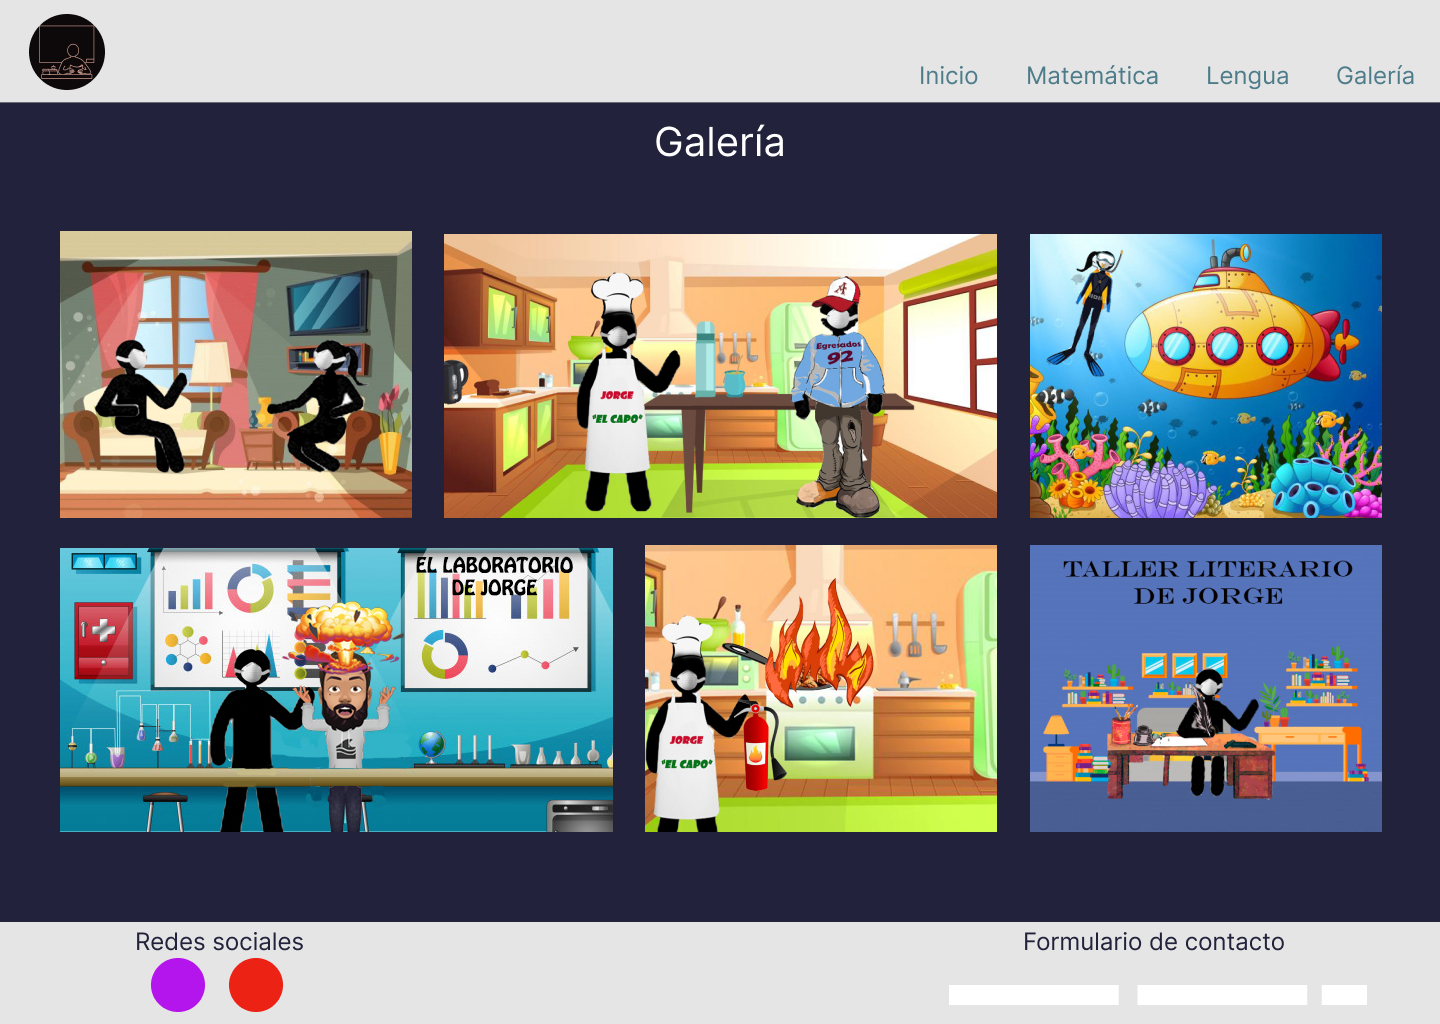
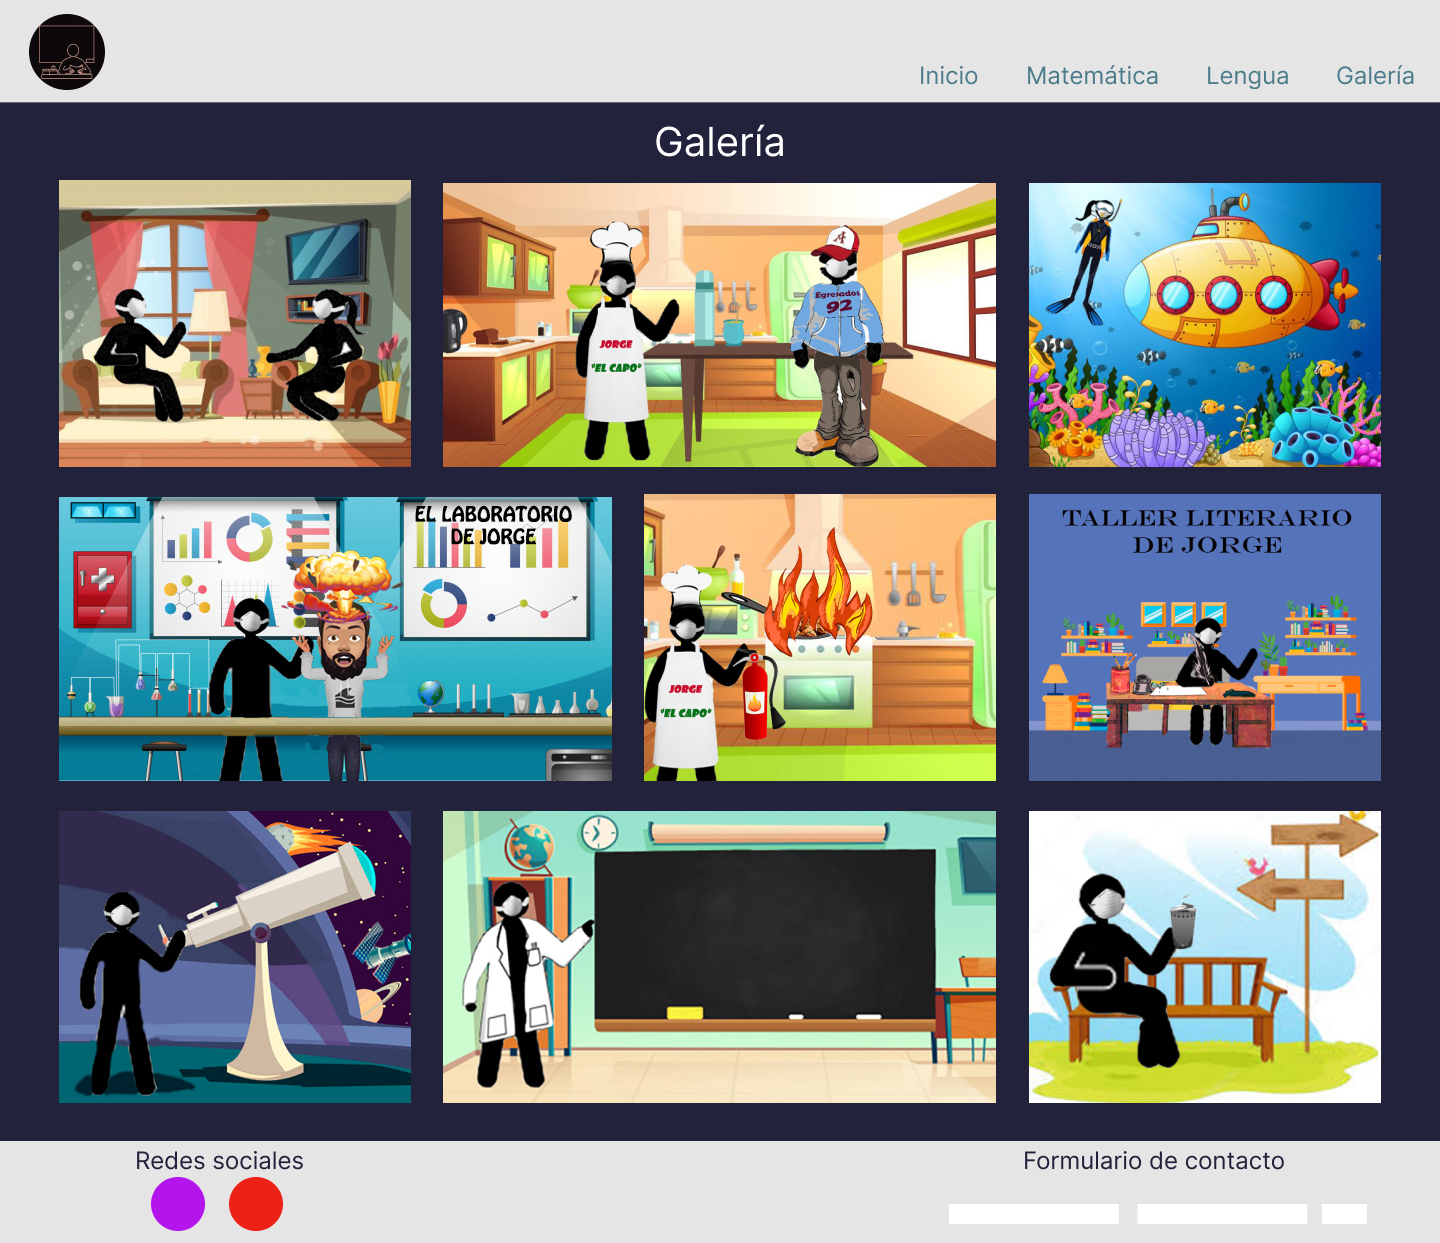
Animaciones

diff --git a/Css/index.css b/Css/index.css
@@ -3,6 +3,7 @@
 *{
     margin: 0;
     padding: 0;
+    box-sizing: border-box;
 }
 
 html{
@@ -39,12 +40,18 @@ p{
 
 .button{
     background-color: #cc998d;
-   border: solid white 2px;
-   font-family: 'Josefin Sans', sans-serif;
-   border-radius: 0.5rem;
-   color: #0D090A; 
-   margin: 2rem;
+    border: solid white 2px;
+    font-family: 'Josefin Sans', sans-serif;
+    border-radius: 0.5rem;
+    color: #0D090A; 
+    margin: 2rem;
+    transition: all .3s linear;
 }
+
+.button:hover{
+    transform: scale(1.2, 1.2);
+}
+
 
 /* ESTILOS HEADER */
 
@@ -52,8 +59,9 @@ header{
     display: flex;
     flex-direction: row;
     justify-content: space-between;
-    background-color: #daf7dccb; 
-    align-items: center;
+    background: linear-gradient(to bottom, #304352, #d7d2cc); 
+    opacity: 0.8; 
+    align-items: center;  
 }
 
 header picture img{
@@ -66,16 +74,30 @@ nav ul{
     justify-content: space-between;
 }
 
-nav ul li{
+nav ul li a:hover{
+    background-color: #daf7dc;
+    color: #0d090a;
+}
+
+nav ul li a{
     font-family: 'Josefin Sans', sans-serif;
     font-size: 1.5rem;
-    color: #0d090a;
-    padding: 1rem;
-    text-decoration-line: none;
+    color: #daf7dc;
+    padding: 1rem 2rem;
+    text-decoration-line: none; 
+    transition: all .3s ease-in-out;  
 }
 
 ul{
     list-style-type: none;
+}
+
+img {
+    transition: all .3s linear;
+}
+
+img:hover{
+    transform: scale(1.1, 1.1);
 }
 
 /* ESTILOS MAIN*/
@@ -114,6 +136,10 @@ ul{
     justify-content: center;
     margin: 1rem 1rem 2rem 1rem;
 }
+.video{
+    width: 400px;
+    height: 280px;
+}
 
 .secundario__button{
     display: flex;
@@ -130,7 +156,8 @@ footer{
     align-items: center;
     align-content: center;
     justify-content: space-between;
-    background-color: #daf7dccb;
+    background: linear-gradient(to top, #304352, #d7d2cc);
+    opacity: 0.8; 
     
 }
 
@@ -158,10 +185,11 @@ ol{
 
 /*  GALERIA */
 
-/*img{
+section picture img{
     width: 100%;
     height: 100%;
-}*/
+}
+
 
 .galeria{
     display: grid;
@@ -169,6 +197,7 @@ ol{
     grid-template-rows: repeat(3, 1fr);
     gap: 2rem;
     height: auto;
+    
 }
 
 .galeria__img:nth-of-type(1){
@@ -195,8 +224,20 @@ ol{
     grid-column: 10 / 13;
     grid-row: 2;    
 }
+.galeria__img:nth-of-type(7){
+    grid-column: 1 / 4;
+    grid-row: 3;
+}
+.galeria__img:nth-of-type(8){
+    grid-column: 4 / 10;
+    grid-row: 3;  
+}
+.galeria__img:nth-of-type(9){
+    grid-column: 10 / 13;
+    grid-row: 3;    
+}
 
-
+/* Responsive */
 
 @media screen and (max-width: 760px){
     header{
@@ -234,10 +275,10 @@ ol{
         height: 180px;
     }
 
-    /*.video{
+    .video{
         width: 100%;
         padding: 1rem;
-    }*/
+    }
 
 }
 

diff --git a/index.html b/index.html
@@ -5,11 +5,16 @@
     <meta http-equiv="X-UA-Compatible" content="IE=edge">
     <meta name="viewport" content="width=device-width, initial-scale=1.0">
     <title>Inicio</title>
+    <link
+    rel="stylesheet"
+    href="https://cdnjs.cloudflare.com/ajax/libs/animate.css/4.1.1/animate.min.css"
+  />
+  />
     <link rel="stylesheet" href="./Css/index.css">
 </head>
 <body>
     <header>
-        <picture>
+        <picture class="animate__animated animate__pulse">
             <img src="./img/Logo Jorge.svg" alt="Logo de maestro en escritorio">
         </picture>
         <nav>
@@ -24,7 +29,7 @@
     <main class="main">
         <section class="principal">
             <div class="principal__presentacion">
-                <h1>La escuelita de Jorge</h1>
+                <h1 class="animate__animated animate__bounceInLeft">La escuelita de Jorge</h1>
                 <p>Bienvenido a la escuelita de Jorge. 
                 En este sitio encontrarás tareas, actividades, videos y muchas cosas más. Podrás acompañar a Jorge en todas sus locuras y aventuras, así como a Mabel, Ramón y José Luis.
                 En la página principal encontrarás un video destacado con contenidos nuevos cada semana. También un botón que te llevará a las últimas tareas realizadas.
@@ -41,8 +46,8 @@
                 <h2>Video destacado</h2>
                 <p>En el video destacado de esta semana Jorge se presenta y les da la bienvenida a los chicos de 5° grado. 
                 Nos cuenta cómo vamos a trabajar, como vamos a realizar las tareas y todos los trabajos. Y, de paso cañazo, nos presenta a Mabel, Ramón y José Luis que nos acompañarán en todos los videos.</p>
-                <div class="video">
-                <iframe width="640" height="360" src="https://www.youtube.com/embed/wAo855x2tS0" title="YouTube video player" frameborder="0" allow="accelerometer; autoplay; clipboard-write; encrypted-media; gyroscope; picture-in-picture" allowfullscreen></iframe></iframe>
+                <div>
+                <iframe class="video" src="https://www.youtube.com/embed/wAo855x2tS0" title="YouTube video player" frameborder="0" allow="accelerometer; autoplay; clipboard-write; encrypted-media; gyroscope; picture-in-picture" allowfullscreen></iframe></iframe>
                 </div>
             </div>
             <div class="secundario__button">

diff --git a/Pages/matematica.html b/Pages/matematica.html
@@ -5,11 +5,15 @@
     <meta http-equiv="X-UA-Compatible" content="IE=edge">
     <meta name="viewport" content="width=device-width, initial-scale=1.0">
     <title>Matemática</title>
+    <link
+    rel="stylesheet"
+    href="https://cdnjs.cloudflare.com/ajax/libs/animate.css/4.1.1/animate.min.css"
+  />
     <link rel="stylesheet" href="../Css/index.css">
 </head>
 <body>
     <header>
-        <picture>
+        <picture class="animate__animated animate__pulse">
             <img src="../img/Logo Jorge.svg" alt="Logo de maestro en escritorio">
         </picture>
         <nav>
@@ -20,11 +24,11 @@
                 <li> <a href="./galeria.html">Galería</a></li>
             </ul>
         </nav>
-    </header>
+    </header> 
     <main class="main">
         <section class="principal">
         <div class="principal__presentación">
-            <h1>Matemática</h1>
+            <h1 class="animate__animated animate__bounceInLeft">Matemática</h1>
             <h2>Video destacado</h2>
             <p>En el video destacado de esta semana, Jorge nos explica las carácterísticas del sistema de numeración decimal. También nos cuenta cómo está organizado y la importancia que tiene conocer todos sus elementos y su funcionamiento para poder aplicar correctamente a la resolución de todos los ejercicios.
             No te pierdas esta explicación!</p>
@@ -34,8 +38,9 @@
         </div>
         </section>
         <section class="secundario">
-            <div class="video">
-                <iframe width="640" height="360" src="https://www.youtube.com/embed/z7V5kJszvac" title="YouTube video player" frameborder="0" allow="accelerometer; autoplay; clipboard-write; encrypted-media; gyroscope; picture-in-picture" allowfullscreen></iframe>
+            <div>
+            <div class="secundario__video">
+                <iframe class="video"  src="https://www.youtube.com/embed/z7V5kJszvac" title="YouTube video player" frameborder="0" allow="accelerometer; autoplay; clipboard-write; encrypted-media; gyroscope; picture-in-picture" allowfullscreen></iframe>
             </div>
             <div class="tareas">
                 <button class="button">Últimas tareas</button>

diff --git a/Pages/lengua.html b/Pages/lengua.html
@@ -5,11 +5,15 @@
     <meta http-equiv="X-UA-Compatible" content="IE=edge">
     <meta name="viewport" content="width=device-width, initial-scale=1.0">
     <title>Lengua</title>
+    <link
+    rel="stylesheet"
+    href="https://cdnjs.cloudflare.com/ajax/libs/animate.css/4.1.1/animate.min.css"
+  />
     <link rel="stylesheet" href="../Css/index.css">
 </head>
 <body>
     <header>
-        <picture>
+        <picture class="animate__animated animate__pulse">
             <img src="../img/Logo Jorge.svg" alt="Logo de maestro en escritorio">
         </picture>
         <nav>
@@ -24,7 +28,7 @@
     <main class="main">
         <section class="principal">
         <div class="principal__presentación">
-            <h1>Lengua</h1>
+            <h1 class="animate__animated animate__bounceInLeft">Lengua</h1>
             <h2>Video destacado</h2>
             <p>En el video destacado de esta semana, Jorge nos explica las carácterísticas del cuento de humor, sus elementos y nos enseña algunos tips para que podamos comenzar con la escritura de nuestro propio cuento de humor. No te pierdas ni un solo detalle, además de los chistes, Jorge sabe mucho del tema y sus consejos te pueden ayudar un montón a realizar las próximas tareas. 
             No te pierdas esta explicación!</p>
@@ -34,8 +38,8 @@
         </div>
         </section>
         <section class="secundario">
-            <div class="video">
-                <iframe width="640" height="360" src="https://www.youtube.com/embed/i0mV6_7ZFGE" title="YouTube video player" frameborder="0" allow="accelerometer; autoplay; clipboard-write; encrypted-media; gyroscope; picture-in-picture" allowfullscreen></iframe>
+            <div>
+                <iframe class="video" src="https://www.youtube.com/embed/i0mV6_7ZFGE" title="YouTube video player" frameborder="0" allow="accelerometer; autoplay; clipboard-write; encrypted-media; gyroscope; picture-in-picture" allowfullscreen></iframe>
             </div>
             <div class="tareas">
                 <button class="button">Últimas tareas</button>

diff --git a/Pages/ciencias naturales.html b/Pages/ciencias naturales.html
@@ -5,11 +5,15 @@
     <meta http-equiv="X-UA-Compatible" content="IE=edge">
     <meta name="viewport" content="width=device-width, initial-scale=1.0">
     <title>Ciencias Naturales</title>
+    <link
+    rel="stylesheet"
+    href="https://cdnjs.cloudflare.com/ajax/libs/animate.css/4.1.1/animate.min.css"
+  />
     <link rel="stylesheet" href="../Css/index.css">
 </head>
 <body>
     <header>
-        <picture>
+        <picture class="animate__animated animate__pulse">
             <img src="../img/Logo Jorge.svg" alt="Logo de maestro en escritorio">
         </picture>
         <nav>
@@ -24,7 +28,7 @@
     <main class="main">
         <section class="principal">
         <div class="principal__presentación">
-            <h1>Ciencias Naturales</h1>
+            <h1 class="animate__animated animate__bounceInLeft">Ciencias Naturales</h1>
             <h2>Video destacado</h2>
             <p>En el video destacado de esta semana, Jorge nos explica la forma en que los científicos dividen toda la organización de la vida y la materia en diferentes niveles, llamados niveles de organizacón. Esta es la primera parte del video, no te olvides de ver también la segunda para completar los conocimientos que necesites para realizar todas las tareas.</p>
         </div>
@@ -33,8 +37,8 @@
         </div>
         </section>
         <section class="secundario">
-            <div class="video">
-                <iframe width="640" height="360" src="https://www.youtube.com/embed/zHOsoStdN4s" title="YouTube video player" frameborder="0" allow="accelerometer; autoplay; clipboard-write; encrypted-media; gyroscope; picture-in-picture" allowfullscreen></iframe>
+            <div>
+                <iframe class="video" src="https://www.youtube.com/embed/zHOsoStdN4s" title="YouTube video player" frameborder="0" allow="accelerometer; autoplay; clipboard-write; encrypted-media; gyroscope; picture-in-picture" allowfullscreen></iframe>
             </div>
             <div class="tareas">
                 <button class="button">Últimas tareas</button>

diff --git a/Pages/galeria.html b/Pages/galeria.html
@@ -28,6 +28,9 @@
             <picture class="galeria__img"><img src="../img/4lab.jpg" alt=""></picture>
             <picture class="galeria__img"><img src="../img/5incendio.jpg" alt=""></picture>
             <picture class="galeria__img"><img src="../img/6taller.jpg" alt=""></picture>
+            <picture class="galeria__img"><img src="../img/7observatorio.jpg" alt=""></picture>
+            <picture class="galeria__img"><img src="../img/8aula.jpg" alt=""></picture>
+            <picture class="galeria__img"><img src="../img/9plaza.jpg" alt=""></picture>
         </section>
     <footer>
         <div class="redes">
